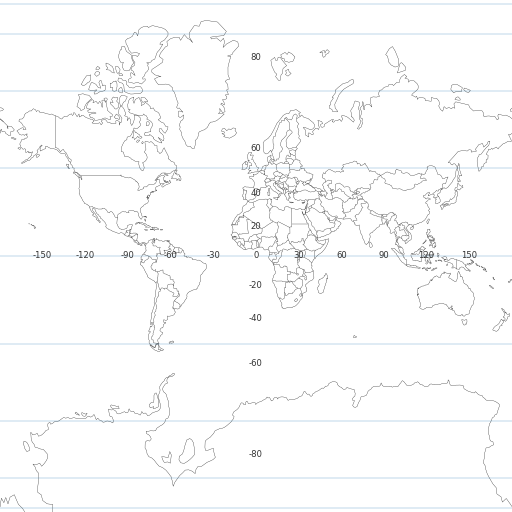
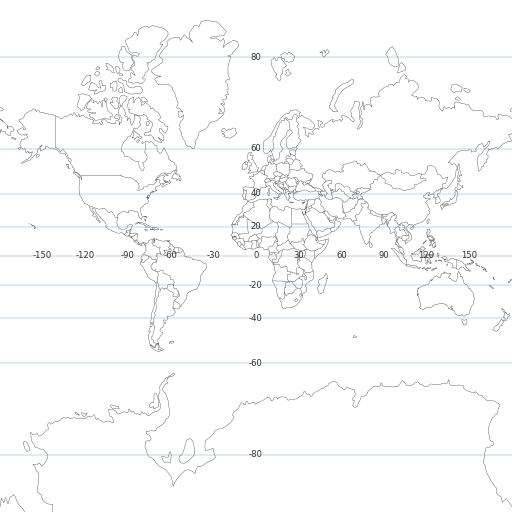
wip

diff --git a/grid/render.py b/grid/render.py
@@ -13,6 +13,17 @@ import numpy as np
 
 EARTH_RADIUS = 6378137.0
 
+
+def to_y(phi: float):
+    phi_radians = (phi / 180.) * np.pi
+    return EARTH_RADIUS * np.log(np.tan((np.pi / 4) + (phi_radians / 2)))
+
+
+def to_x(lam: float):
+    lam_radians = (lam / 180.) * np.pi
+    return EARTH_RADIUS * lam_radians
+
+
 BBox = namedtuple("BBox", ("x_min", "y_min", "x_max", "y_max"))
 
 
@@ -48,7 +59,7 @@ def main() -> None:
     ax.hlines(0, text_bbox.x_max, bbox.x_max, linewidth=linewidths)
 
     for lat in [-80, -60, -40, -20, 20, 40, 60, 80]:
-        y = EARTH_RADIUS * np.pi * np.sin(np.pi * lat / 180)
+        y = to_y(lat)
         text = ax.text(0, lat, f"{lat}", fontsize=fontsize, va="center", ha="center", color="#333", transform=ccrs.PlateCarree())
         extent = text.get_transform().inverted().transform(text.get_window_extent())
         text_bbox = BBox(x_min=extent[0, 0], y_min=extent[0, 1], x_max=extent[1, 0], y_max=extent[1, 1])

diff --git a/grid/test_render.py b/grid/test_render.py
@@ -1,0 +1,24 @@
+import pytest
+import cartopy
+import numpy as np
+from render import to_y, to_x
+
+@pytest.mark.parametrize("phi", [
+    0,
+    45,
+])
+def test_y(phi):
+    src = cartopy.crs.PlateCarree()
+    dst = cartopy.crs.Mercator.GOOGLE
+    _, y = dst.transform_point(0, phi, src)
+    assert np.isclose(to_y(phi), y)
+
+@pytest.mark.parametrize("lam", [
+    0,
+    45,
+])
+def test_to_x(lam):
+    src = cartopy.crs.PlateCarree()
+    dst = cartopy.crs.Mercator.GOOGLE
+    x, _ = dst.transform_point(lam, 0, src)
+    assert np.isclose(to_x(lam), x)
